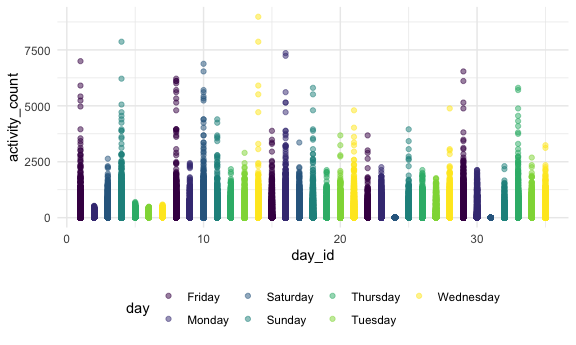
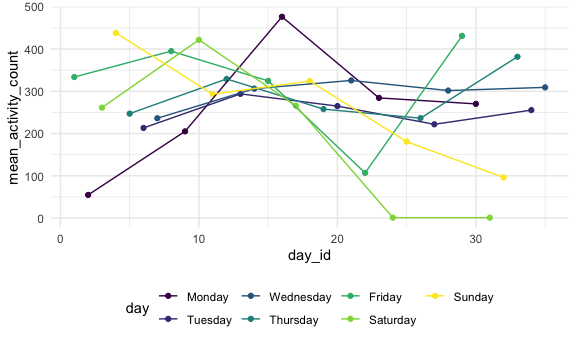
Update graph and code for Problem 2. Load data for Problem 3

diff --git a/p8105_hw3_tnn2113.md b/p8105_hw3_tnn2113.md
@@ -38,6 +38,26 @@ accel_df =
 
     ## See spec(...) for full column specifications.
 
+``` r
+accel_df$day = factor(accel_df$day, levels = c("Monday", "Tuesday", "Wednesday", "Thursday", "Friday", "Saturday", "Sunday"))
+accel_df[order(accel_df$day), ]
+```
+
+    ## # A tibble: 50,400 x 6
+    ##     week day_id day    minute activity_count weekday_or_weekend
+    ##    <dbl>  <dbl> <fct>  <chr>           <dbl> <chr>             
+    ##  1     1      2 Monday 1                   1 weekday           
+    ##  2     1      2 Monday 2                   1 weekday           
+    ##  3     1      2 Monday 3                   1 weekday           
+    ##  4     1      2 Monday 4                   1 weekday           
+    ##  5     1      2 Monday 5                   1 weekday           
+    ##  6     1      2 Monday 6                   1 weekday           
+    ##  7     1      2 Monday 7                   1 weekday           
+    ##  8     1      2 Monday 8                   1 weekday           
+    ##  9     1      2 Monday 9                   1 weekday           
+    ## 10     1      2 Monday 10                  1 weekday           
+    ## # … with 50,390 more rows
+
 There are 6 variables which include `week`, `day_id`, `day`, `minute of
 the day`, `activity_count`, and `weekday_or_weekend`. There are total
 50,400 observations.
@@ -48,24 +68,84 @@ accel_df_tidy =
   group_by(week,day_id, day) %>% 
   summarise(
     mean_activity_count = mean(activity_count, na.rm = TRUE)
-  ) %>% 
+  )
+```
+
+    ## `summarise()` regrouping output by 'week', 'day_id' (override with `.groups` argument)
+
+``` r
+accel_df_tidy$day = factor(accel_df_tidy$day, levels = c("Monday", "Tuesday", "Wednesday", "Thursday", "Friday", "Saturday", "Sunday"))
+accel_df_tidy[order(accel_df_tidy$day), ]
+```
+
+    ## # A tibble: 35 x 4
+    ## # Groups:   week, day_id [35]
+    ##     week day_id day     mean_activity_count
+    ##    <dbl>  <dbl> <fct>                 <dbl>
+    ##  1     1      2 Monday                 54.7
+    ##  2     2      9 Monday                205. 
+    ##  3     3     16 Monday                476. 
+    ##  4     4     23 Monday                284. 
+    ##  5     5     30 Monday                270. 
+    ##  6     1      6 Tuesday               213. 
+    ##  7     2     13 Tuesday               294. 
+    ##  8     3     20 Tuesday               265. 
+    ##  9     4     27 Tuesday               222. 
+    ## 10     5     34 Tuesday               255. 
+    ## # … with 25 more rows
+
+``` r
+accel_df_tidy %>% 
   pivot_wider(
     names_from = day,
     values_from = mean_activity_count
   )
 ```
 
-    ## `summarise()` regrouping output by 'week', 'day_id' (override with `.groups` argument)
+    ## # A tibble: 35 x 9
+    ## # Groups:   week, day_id [35]
+    ##     week day_id Friday Monday Saturday Sunday Thursday Tuesday Wednesday
+    ##    <dbl>  <dbl>  <dbl>  <dbl>    <dbl>  <dbl>    <dbl>   <dbl>     <dbl>
+    ##  1     1      1   334.   NA        NA     NA       NA      NA        NA 
+    ##  2     1      2    NA    54.7      NA     NA       NA      NA        NA 
+    ##  3     1      3    NA    NA       261.    NA       NA      NA        NA 
+    ##  4     1      4    NA    NA        NA    438.      NA      NA        NA 
+    ##  5     1      5    NA    NA        NA     NA      247.     NA        NA 
+    ##  6     1      6    NA    NA        NA     NA       NA     213.       NA 
+    ##  7     1      7    NA    NA        NA     NA       NA      NA       236.
+    ##  8     2      8   395.   NA        NA     NA       NA      NA        NA 
+    ##  9     2      9    NA   205.       NA     NA       NA      NA        NA 
+    ## 10     2     10    NA    NA       422.    NA       NA      NA        NA 
+    ## # … with 25 more rows
 
 Patient’s activity count is high on the weekends during the first 3
 weeks. In general, patient is more active during the weekdays.
 
 ``` r
-ggplot(data = accel_df, aes(x = day_id, y = activity_count, color = day)) + 
-  geom_point(alpha = .5)
+ggplot(accel_df_tidy, aes(x = day_id, y = mean_activity_count, color = day)) + 
+  geom_point() +
+  geom_line()
 ```
 
 <img src="p8105_hw3_tnn2113_files/figure-gfm/unnamed-chunk-3-1.png" width="90%" />
 
-From the graph, Wednesday (Day 14) has the highest activity count.
-Patient were not very active on Tuesdays, Thursdays, and Saturdays.
+From the graph, patient’s activity counts decreased on Saturdays and
+Sundays from day 24 to day 31. Activity count of Fridays decreased from
+day 1 to day 22 but increased afterwards. On Tuesdays, Thursdays,and
+Friday, activity counts remained around the same pace.
+
+## Problem 3
+
+Load the dataset
+
+``` r
+devtools::install_github("p8105/p8105.datasets")
+```
+
+    ## Skipping install of 'p8105.datasets' from a github remote, the SHA1 (412759e3) has not changed since last install.
+    ##   Use `force = TRUE` to force installation
+
+``` r
+library(p8105.datasets)
+data("ny_noaa")
+```
